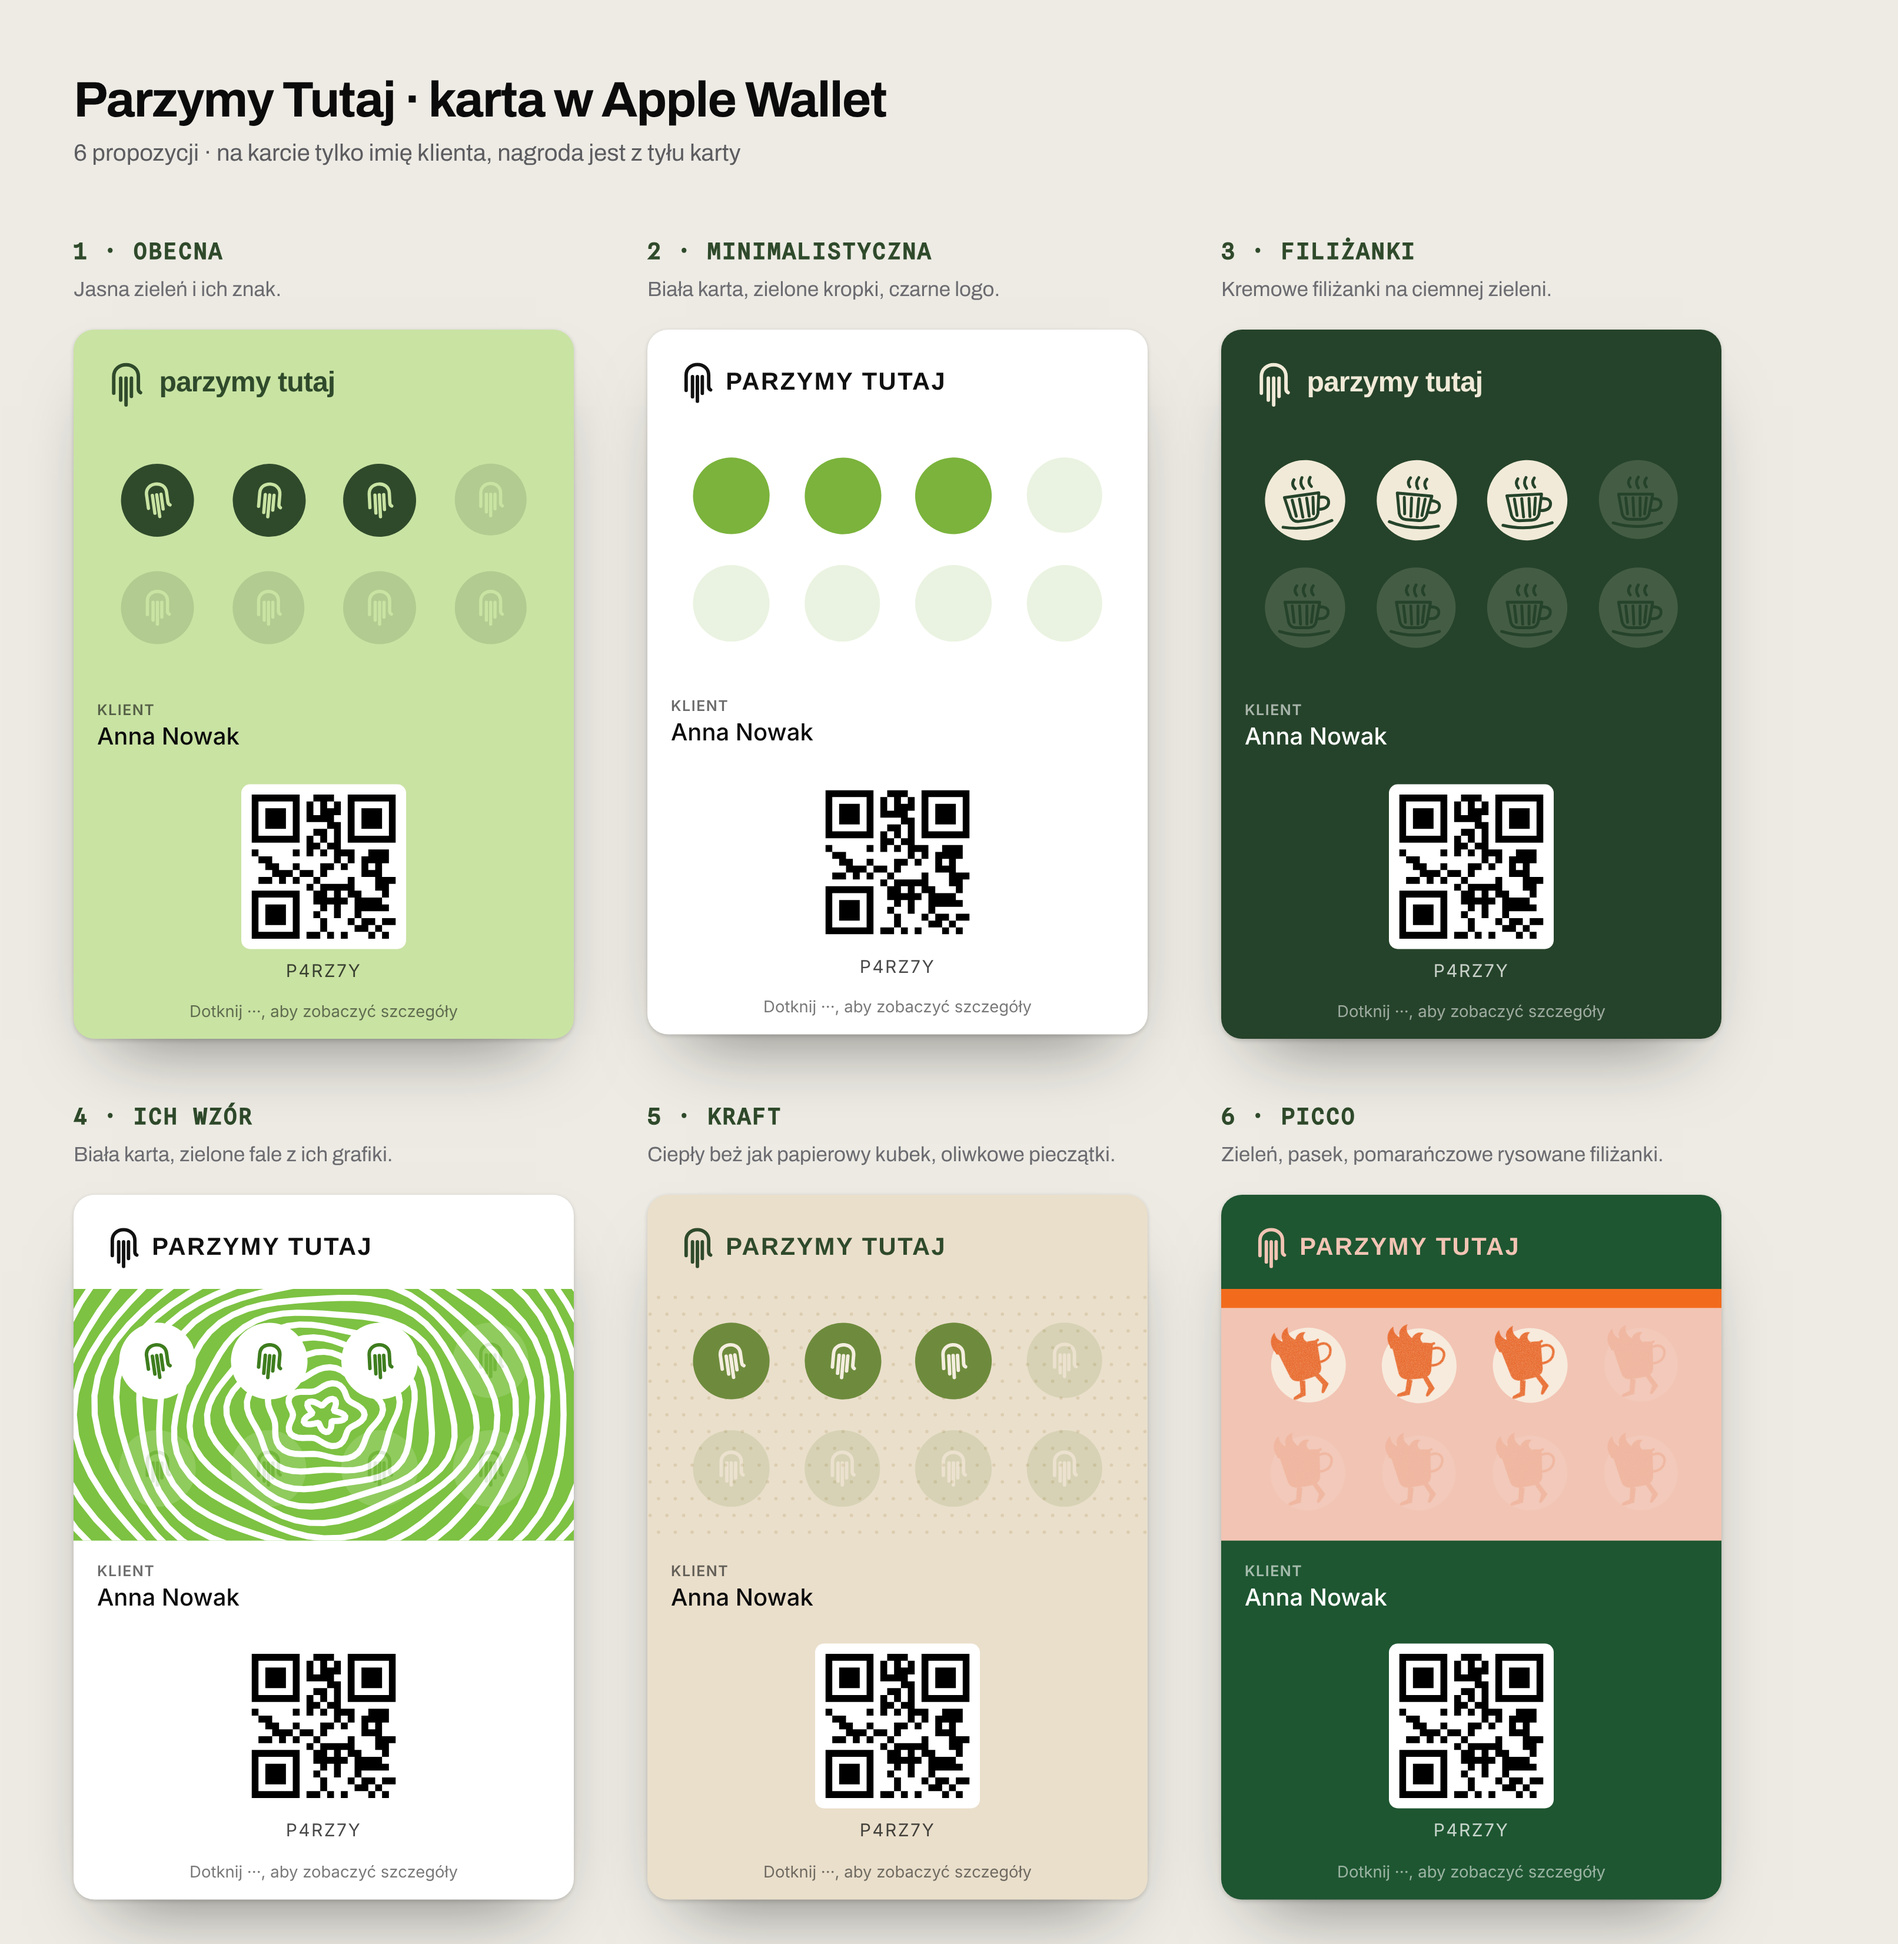
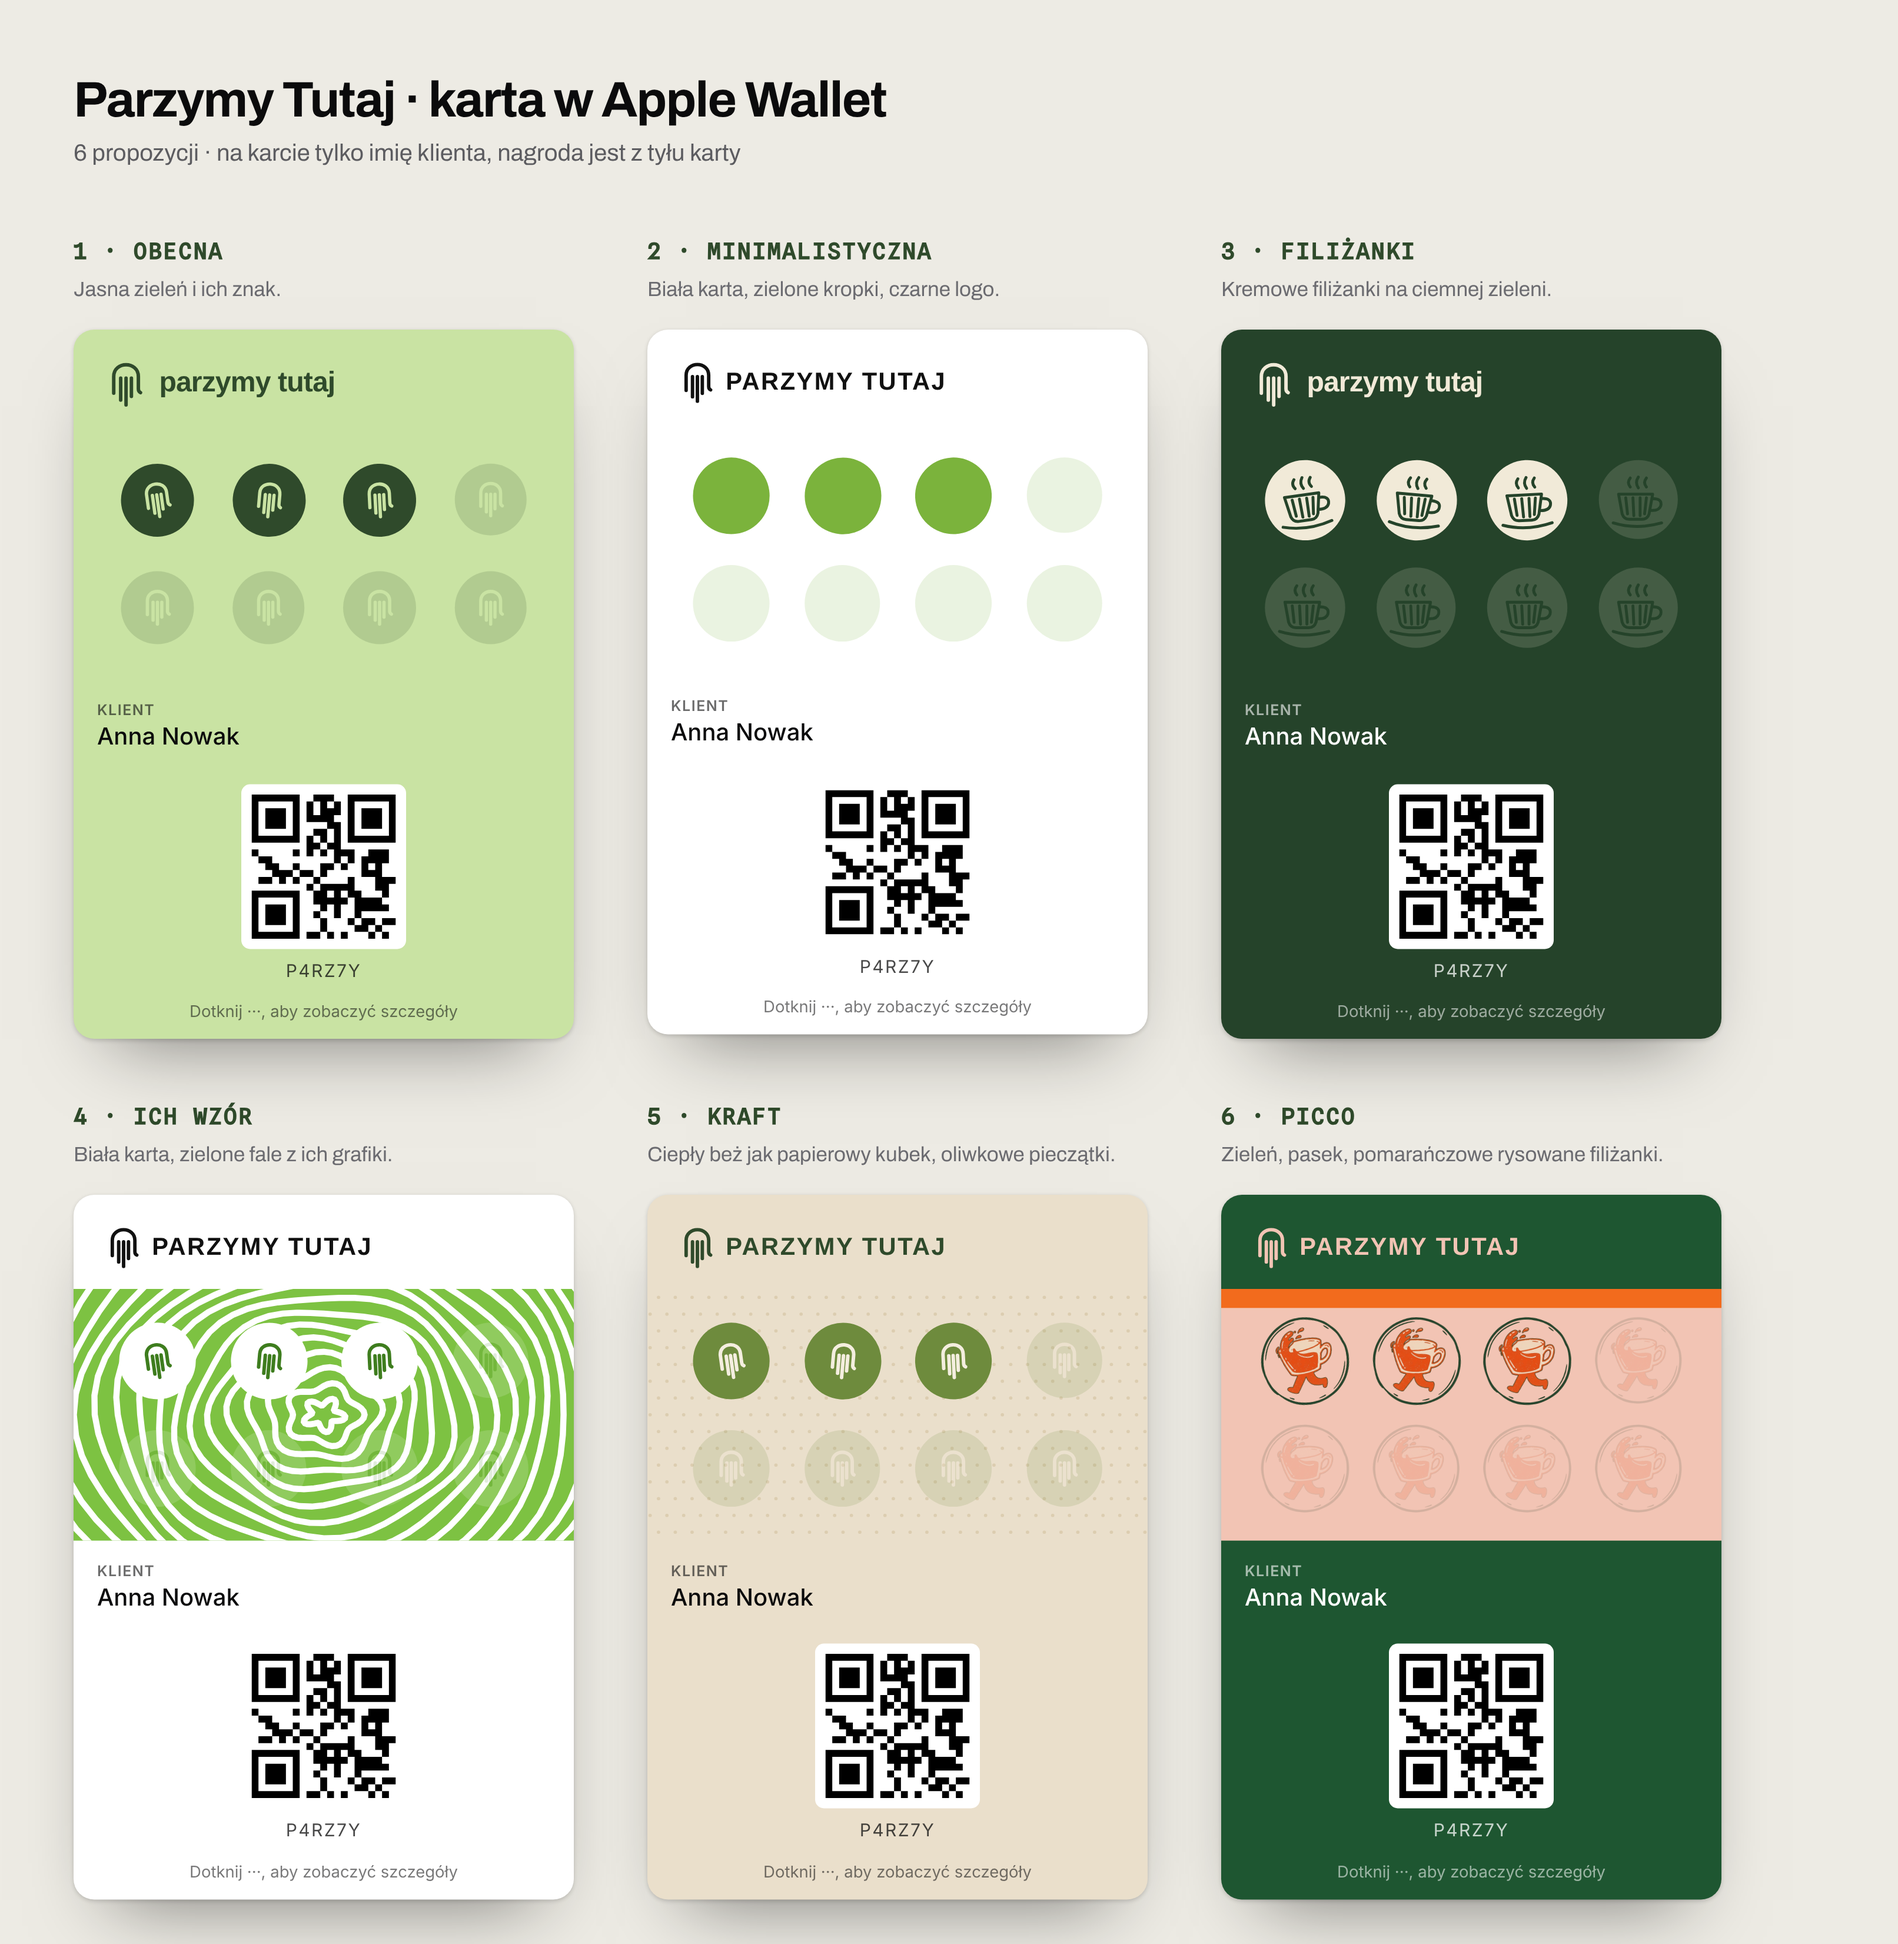
Parzymy options: card 6 uses the walking-cup stamp from Bartek
Claude-Session: https://claude.ai/code/session_01P7jvwC9jL6ipCqqXJiCoo9

Changed region(s): [[0.6512, 0.686, 0.8372, 0.7484]]

diff --git a/print/parzymy-options.html b/print/parzymy-options.html
@@ -83,7 +83,7 @@ body{margin:0;background:#EDEBE4}
     ['3 · Filiżanki', 'Kremowe filiżanki na ciemnej zieleni.', { ...BASE, color: '#25432A', ink: '#F1EAD8', strip: '#25432A', logo: L.green.logo.replace(/%232F4A2B/g, '%23F1EAD8'), stripImage: plain('#25432A'), stampImage: cup('#F1EAD8', '#25432A') }],
     ['4 · Ich wzór', 'Biała karta, zielone fale z ich grafiki.', { ...BASE, color: '#FFFFFF', ink: '#111111', strip: '#7DC242', logo: caps('#111111'), stripImage: swirl('#7DC242', '#FFFFFF'), stampImage: disc('#FFFFFF', `<g transform="translate(26 22) scale(.48)">${markG('#3E7D1E', 8)}</g>`) }],
     ['5 · Kraft', 'Ciepły beż jak papierowy kubek, oliwkowe pieczątki.', { ...BASE, color: '#EADFCB', ink: '#2F4A2B', strip: '#EADFCB', logo: caps('#2F4A2B'), stripImage: dots('#EADFCB', '#DCCDB0'), stampImage: disc('#6E8B3D', `<g transform="translate(26 22) scale(.48)">${markG('#F4EEDF', 8)}</g>`) }],
-    ['6 · Picco', 'Zieleń, pasek, pomarańczowe rysowane filiżanki.', { ...BASE, color: '#1E5631', ink: '#1E5631', strip: '#F2C4B4', logo: caps('#F2C4B4'), stripImage: band('#F2C4B4', '#F26B1D'), stampImage: walkingCup('#E8682A') }]
+    ['6 · Picco', 'Zieleń, pasek, pomarańczowe rysowane filiżanki.', { ...BASE, color: '#1E5631', ink: '#1E5631', strip: '#F2C4B4', logo: caps('#F2C4B4'), stripImage: band('#F2C4B4', '#F26B1D'), stampImage: '../assets/demo/parzymy/stamp-walking.png' }]
   ];
   const who = { id: 'P4RZ7Y', name: 'Anna Nowak', stamps: 3 };
   document.getElementById('grid').innerHTML = OPTS.map(([h, p, card]) => `<div class="opt"><h2>${h}</h2><p>${p}</p>${UI.renderPass(card, who, { platform: 'apple' })}</div>`).join('');
